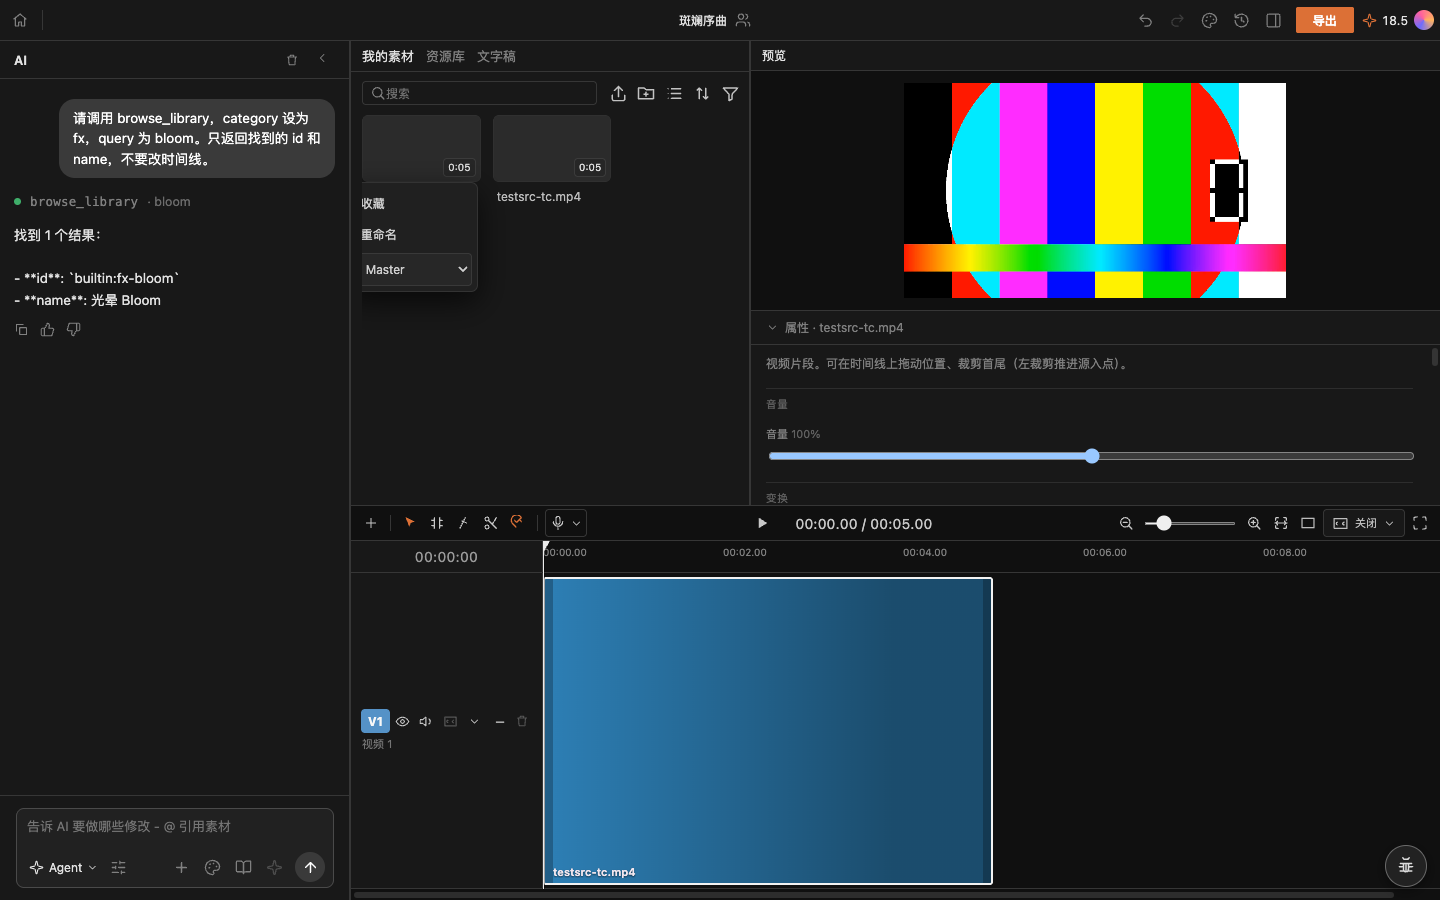
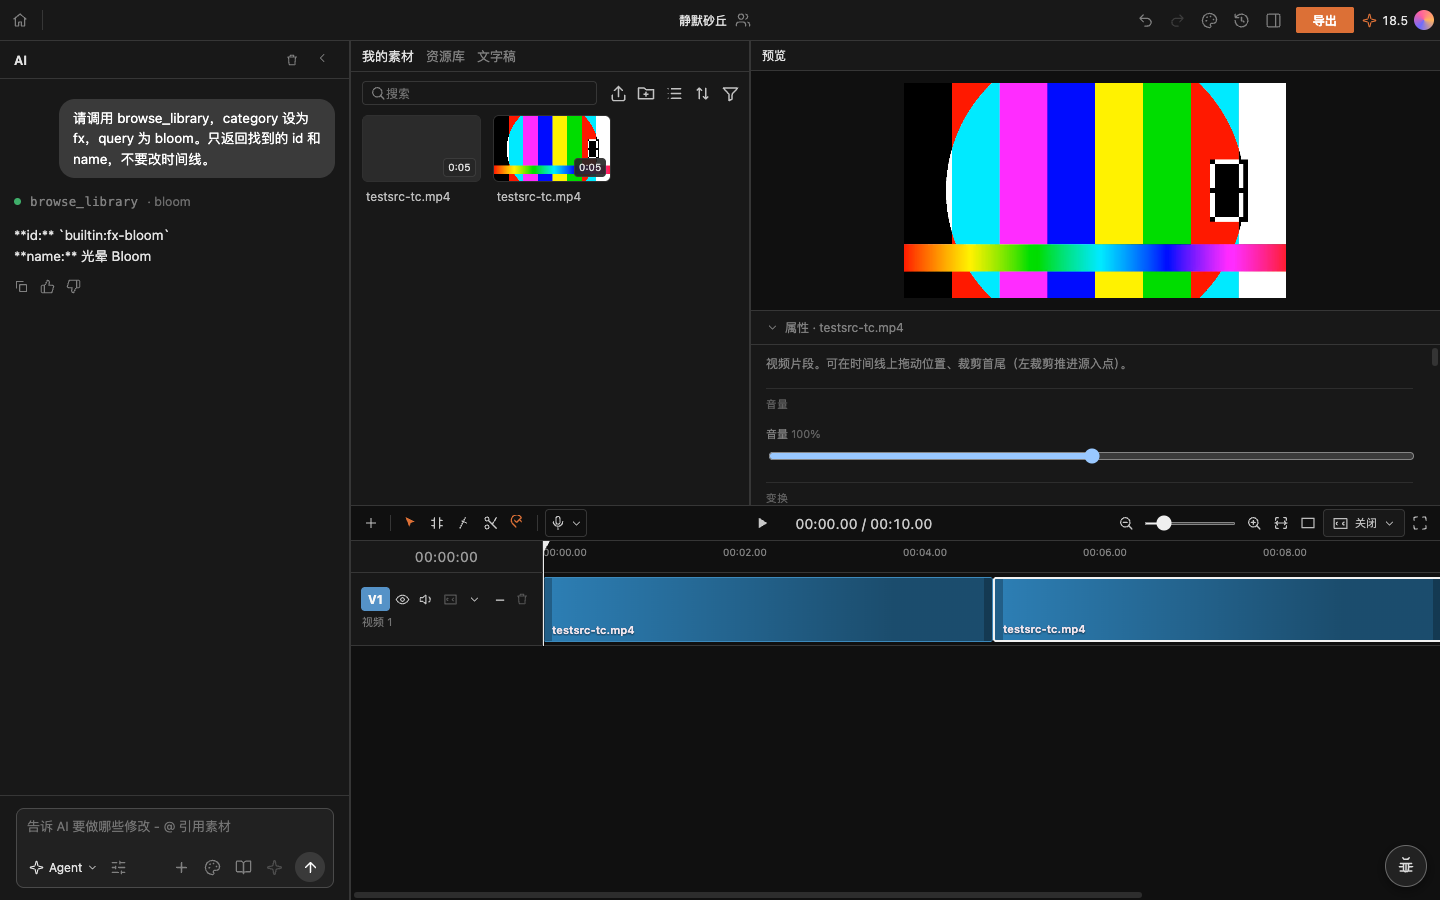
fix(ui): 单轨时间线限高 + 素材菜单 portal 防裁切
单视频轨行高上限避免铺满时间线面板；素材 ⋮ 菜单改 body portal，完整显示
收藏/重命名/移动到。补充 agent E2E（zoom + 转场）与 check 清理。

diff --git a/src/components/MediaPoolPanel.tsx b/src/components/MediaPoolPanel.tsx
@@ -1,4 +1,5 @@
-import { useRef, useState } from 'react';
+import { useEffect, useRef, useState } from 'react';
+import { createPortal } from 'react-dom';
 import { Icon } from './icons';
 import type { MediaAsset, MediaFolder } from '../editor/types';
 import { usePersistedState } from '../hooks/usePersistedState';
@@ -55,11 +56,27 @@ export function MediaPoolPanel({
   const [view, setView] = usePersistedState<'grid' | 'list'>('cc.mediaView', 'grid');
   const [menu, setMenu] = useState<'sort' | 'filter' | null>(null);
   const [assetMenu, setAssetMenu] = useState<string | null>(null);
+  /** fixed-position menu so overflow:auto grid doesn't clip 收藏/重命名/文件夹 */
+  const [assetMenuPos, setAssetMenuPos] = useState<{ top: number; left: number } | null>(null);
   const [currentFolderId, setCurrentFolderId] = useState<string>();
   const [selected, setSelected] = useState<Set<string>>(() => new Set());
   const [promptState, setPromptState] = useState<PromptState | null>(null);
   const [promptValue, setPromptValue] = useState('');
   const [deleteState, setDeleteState] = useState<DeleteState | null>(null);
+
+  useEffect(() => {
+    if (!assetMenu) return;
+    const close = () => { setAssetMenu(null); setAssetMenuPos(null); };
+    const onKey = (e: KeyboardEvent) => { if (e.key === 'Escape') close(); };
+    window.addEventListener('scroll', close, true);
+    window.addEventListener('resize', close);
+    window.addEventListener('keydown', onKey);
+    return () => {
+      window.removeEventListener('scroll', close, true);
+      window.removeEventListener('resize', close);
+      window.removeEventListener('keydown', onKey);
+    };
+  }, [assetMenu]);
 
   const currentFolder = folders.find((folder) => folder.id === currentFolderId);
   const childFolders = folders.filter((folder) => folder.parentId === currentFolderId);
@@ -184,16 +201,29 @@ export function MediaPoolPanel({
             {asset.kind === 'audio' && <span className="cc-asset-audio-mark"><Icon name="volume" size={14} /></span>}
             <span className="cc-asset-duration">{durationLabel(asset.durationInFrames, fps)}</span>
             <input className="cc-asset-check" aria-label={`选择 ${asset.name}`} type="checkbox" checked={selected.has(asset.id)} onChange={() => toggleSelected(asset.id)} />
-            <button className="cc-asset-more" aria-label={`管理 ${asset.name}`} onClick={() => setAssetMenu((value) => value === asset.id ? null : asset.id)}><Icon name="more" size={17} /></button>
+            <button className="cc-asset-more" aria-label={`管理 ${asset.name}`}
+              onClick={(event) => {
+                event.stopPropagation();
+                if (assetMenu === asset.id) {
+                  setAssetMenu(null);
+                  setAssetMenuPos(null);
+                  return;
+                }
+                const r = event.currentTarget.getBoundingClientRect();
+                const menuW = 160;
+                const menuH = 120;
+                const left = Math.min(window.innerWidth - menuW - 8, Math.max(8, r.right - menuW));
+                // prefer below the ⋮ button; flip above if near bottom of viewport
+                const below = r.bottom + 6;
+                const top = below + menuH > window.innerHeight - 8
+                  ? Math.max(8, r.top - menuH - 6)
+                  : below;
+                setAssetMenu(asset.id);
+                setAssetMenuPos({ top, left });
+              }}
+            ><Icon name="more" size={17} /></button>
           </div>
           <button className="cc-asset-name" title={asset.name} onClick={() => onAddAsset(asset)}>{asset.name}</button>
-          {assetMenu === asset.id && <div className="cc-media-popover cc-asset-menu">
-            <button onClick={() => { onSetFavorite(asset.id, !asset.favorite); setAssetMenu(null); }}>{asset.favorite ? '取消收藏' : '收藏'}</button>
-            <button onClick={() => { setAssetMenu(null); openPrompt({ title: '素材显示名称', initialValue: asset.name, onSubmit: (name) => onRenameAsset(asset.id, name) }); }}>重命名</button>
-            <select aria-label={`移动 ${asset.name}`} value={asset.folderId ?? ''} onChange={(event) => { onMoveAssets([asset.id], event.target.value || undefined); setAssetMenu(null); }}>
-              <option value="">Master</option>{folders.map((folder) => <option key={folder.id} value={folder.id}>{folderPath(folder, folders)}</option>)}
-            </select>
-          </div>}
         </div>)}
         {visible.length === 0 && childFolders.length === 0 && (
           <div className="cc-media-empty">
@@ -201,6 +231,40 @@ export function MediaPoolPanel({
           </div>
         )}
       </div>
+
+      {assetMenu && assetMenuPos && (() => {
+        const asset = assets.find((a) => a.id === assetMenu);
+        if (!asset) return null;
+        return createPortal(
+          <>
+            <div className="cc-asset-menu-backdrop" onClick={() => { setAssetMenu(null); setAssetMenuPos(null); }} />
+            <div className="cc-media-popover cc-asset-menu-portal" style={{ top: assetMenuPos.top, left: assetMenuPos.left }}
+              onClick={(e) => e.stopPropagation()}>
+              <button type="button" onClick={() => { onSetFavorite(asset.id, !asset.favorite); setAssetMenu(null); setAssetMenuPos(null); }}>
+                {asset.favorite ? '取消收藏' : '收藏'}
+              </button>
+              <button type="button" onClick={() => {
+                setAssetMenu(null); setAssetMenuPos(null);
+                openPrompt({ title: '素材显示名称', initialValue: asset.name, onSubmit: (name) => onRenameAsset(asset.id, name) });
+              }}>重命名</button>
+              <label className="cc-asset-menu-move">
+                <span>移动到</span>
+                <select aria-label={`移动 ${asset.name}`} value={asset.folderId ?? ''}
+                  onChange={(event) => {
+                    onMoveAssets([asset.id], event.target.value || undefined);
+                    setAssetMenu(null); setAssetMenuPos(null);
+                  }}>
+                  <option value="">Master</option>
+                  {folders.map((folder) => (
+                    <option key={folder.id} value={folder.id}>{folderPath(folder, folders)}</option>
+                  ))}
+                </select>
+              </label>
+            </div>
+          </>,
+          document.body,
+        );
+      })()}
 
       {promptState && <div className="cc-modal-backdrop" role="dialog" aria-modal="true" aria-label={promptState.title}>
         <form className="cc-modal" onSubmit={(event) => { event.preventDefault(); submitPrompt(); }}>

diff --git a/src/index.css b/src/index.css
@@ -143,7 +143,26 @@ button, input, select { font: inherit; }
 .cc-asset-card:has(.cc-asset-audio-mark) .cc-asset-check { left:24px; }
 .cc-asset-name { width:100%; display:block; padding:7px 4px 0; overflow:hidden; border:0; background:transparent; color:#bebebe; cursor:pointer; text-align:left; text-overflow:ellipsis; white-space:nowrap; font-size:12px; line-height:1.25; }
 .cc-asset-name:hover { color:#eee; }
-.cc-asset-menu { top:calc(100% - 22px); right:3px; }
+/* portal menu (avoids overflow clip from .cc-media-grid) */
+.cc-asset-menu-backdrop { position:fixed; inset:0; z-index:900; background:transparent; }
+.cc-asset-menu-portal {
+  position:fixed; z-index:901; min-width:156px; padding:6px; border:1px solid #3a3a3a;
+  border-radius:8px; background:#202020; box-shadow:0 12px 36px #000c;
+  display:flex; flex-direction:column; gap:2px;
+}
+.cc-asset-menu-portal button {
+  width:100%; display:block; padding:8px 10px; border:0; border-radius:5px;
+  background:transparent; color:#ddd; text-align:left; cursor:pointer; font-size:12.5px;
+}
+.cc-asset-menu-portal button:hover { background:#303030; color:#fff; }
+.cc-asset-menu-move {
+  display:flex; flex-direction:column; gap:4px; margin-top:4px; padding:6px 8px 4px;
+  border-top:1px solid #333; color:#8e8e8e; font-size:11px;
+}
+.cc-asset-menu-move select {
+  width:100%; min-width:0; padding:6px 8px; border:1px solid #393939; border-radius:5px;
+  background:#272727; color:#ddd; font-size:12px; cursor:pointer;
+}
 .cc-media-grid.list .cc-asset-card { height:28px; flex:0 0 28px; display:flex; align-items:center; gap:6px; border-radius:4px; }
 .cc-media-grid.list .cc-asset-card:hover { background:#242424; }
 .cc-media-grid.list .cc-asset-thumb-wrap { width:20px; height:20px; flex:0 0 20px; margin:0; overflow:visible; border:0; border-radius:0; background:transparent; }
@@ -153,7 +172,6 @@ button, input, select { font: inherit; }
 .cc-media-grid.list .cc-asset-name { min-width:0; flex:1; margin-right:86px; padding:0; color:#b8b8b8; font-size:13px; font-weight:500; line-height:20px; }
 .cc-media-grid.list .cc-asset-check { top:6px; left:auto; right:30px; }
 .cc-media-grid.list .cc-asset-more { top:2px; right:2px; background:transparent; }
-.cc-media-grid.list .cc-asset-menu { top:26px; right:2px; }
 .cc-media-empty { position:absolute; inset:0; display:flex; flex-direction:column; align-items:center; justify-content:center; gap:7px; padding-bottom:34px; color:#6f6f6f; text-align:center; font-size:12px; pointer-events:none; }
 .cc-media-empty svg { margin-bottom:3px; color:#777; }
 .cc-media-empty strong { color:#aaa; font-size:14px; font-weight:400; line-height:20px; }

diff --git a/src/components/Timeline.tsx b/src/components/Timeline.tsx
@@ -23,6 +23,8 @@ interface TimelineProps {
 const HEADER_W = 192;
 const MIN_ROW = 34;
 const RULER_H = 32;
+/** cap so a lone track doesn't swallow the whole timeline pane (source-like denser rows) */
+const MAX_ROW: Record<'video' | 'audio', number> = { video: 88, audio: 52 };
 // clip fill by ITEM kind — source --tl-item-* oklch (video/image=blue, audio=green,
 // motion-graphic=pink, text=amber). Video/image also render a media thumbnail on top.
 const CLIP_COLOR: Record<TimelineItem['kind'], string> = {
@@ -277,8 +279,21 @@ export function Timeline({ state, commands, playerRef, onRecordVoiceover }: Time
   const expanded = trackIds.filter((id) => !state.tracks?.[id]?.collapsed);
   const collapsedHeight = (trackIds.length - expanded.length) * MIN_ROW;
   const totalWeight = expanded.reduce((sum, id) => sum + WEIGHT[metaOf(id).kind], 0);
-  const unit = Math.max(0, availH - collapsedHeight) / Math.max(1, totalWeight);
-  const rowHeightOf = (id: TrackId) => state.tracks?.[id]?.collapsed ? MIN_ROW : Math.max(MIN_ROW, unit * WEIGHT[metaOf(id).kind] * trackScale);
+  // fill available height when many tracks, but never exceed MAX_ROW per kind —
+  // otherwise a single V1 fills the entire timeline (looks like a giant empty clip).
+  const unitFill = Math.max(0, availH - collapsedHeight) / Math.max(1, totalWeight);
+  const unitCap = Math.min(
+    MAX_ROW.video / WEIGHT.video,
+    MAX_ROW.audio / WEIGHT.audio,
+  );
+  const unit = Math.min(unitFill, unitCap);
+  const rowHeightOf = (id: TrackId) => {
+    if (state.tracks?.[id]?.collapsed) return MIN_ROW;
+    const kind = metaOf(id).kind;
+    const raw = unit * WEIGHT[kind] * trackScale;
+    const cap = MAX_ROW[kind] * Math.max(1, trackScale);
+    return Math.max(MIN_ROW, Math.min(cap, raw));
+  };
   const tracksHeight = trackIds.reduce((sum, id) => sum + rowHeightOf(id), 0);
 
   const frameFromClientX = (clientX: number): number => {

diff --git a/src/agent/library-edit-item.check.ts b/src/agent/library-edit-item.check.ts
@@ -87,10 +87,7 @@ console.log(`catalog: fx=${FX_IDS.length} lut=${LUT_IDS.length} tr=${TRANSITION_
   assert.strictEqual(q.mode, 'list');
   assert.ok(q.results.some((r) => r.id.includes('bloom')), 'query finds bloom');
 
-  const zoomList = await execLibraryTool('browse_library', { category: 'zoom' }, ctx) as {
-    results?: { id: string }[]; total?: number; mode: string;
-  };
-  // category-only returns overview; use query empty list via group or id
+  // category-only returns overview; id mode returns usage guidance
   const zoomDetail = await execLibraryTool('browse_library', { id: 'library:zoom:punch' }, ctx) as {
     mode: string; item: { id: string; usage?: string };
   };

diff --git a/scripts/e2e-agent-library.py b/scripts/e2e-agent-library.py
@@ -89,22 +89,29 @@ def import_videos(page) -> None:
         page.wait_for_timeout(300)
 
     inp = page.locator('input[type="file"]').first
-    inp.set_input_files([str(VIDEO), str(VIDEO)])
-    page.wait_for_timeout(3500)
-    log("imported test video (x2 files)")
+    # two separate imports → two pool cards when possible
+    inp.set_input_files(str(VIDEO))
+    page.wait_for_timeout(2500)
+    inp.set_input_files(str(VIDEO))
+    page.wait_for_timeout(2500)
+    log("imported test video twice")
 
-    # click first asset to timeline twice for two clips
-    thumbs = page.locator("button.cc-asset-thumb, .cc-asset-card button")
-    if thumbs.count() == 0:
-        thumbs = page.locator(".cc-media-grid button")
+    # place onto timeline: click each thumb (or same thumb twice) for adjacent clips
+    thumbs = page.locator("button.cc-asset-thumb")
     n = thumbs.count()
-    log(f"asset buttons: {n}")
-    for i in range(min(2, max(n, 1))):
-        try:
-            thumbs.nth(min(i, n - 1)).click(force=True, timeout=5000)
-            page.wait_for_timeout(500)
-        except Exception as e:
-            log(f"place clip warn: {e}")
+    log(f"asset thumbs: {n}")
+    if n >= 2:
+        thumbs.nth(0).click(force=True, timeout=5000)
+        page.wait_for_timeout(400)
+        thumbs.nth(1).click(force=True, timeout=5000)
+        page.wait_for_timeout(400)
+    elif n == 1:
+        thumbs.first.click(force=True, timeout=5000)
+        page.wait_for_timeout(400)
+        thumbs.first.click(force=True, timeout=5000)
+        page.wait_for_timeout(400)
+    else:
+        log("place clip warn: no thumbs")
     dismiss_overlays(page)
 
 
@@ -232,19 +239,34 @@ def main() -> int:
         (OUT / "chat-after-edit.txt").write_text(body2, encoding="utf-8")
         page.screenshot(path=str(OUT / "04-after-edit.png"))
 
-        # Turn 3: transition
+        # Turn 3: zoom punch on first clip
+        send_chat(
+            page,
+            "请用 edit_item 给第一个 video 片段添加缩放 "
+            "assetId=library:zoom:punch（type=effect）。简要中文说明。",
+        )
+        try:
+            wait_agent_idle(page, 150_000)
+        except TimeoutError as e:
+            log(f"zoom timeout: {e}")
+        body_zoom = page.inner_text("body")
+        (OUT / "chat-after-zoom.txt").write_text(body_zoom, encoding="utf-8")
+        page.screenshot(path=str(OUT / "05-after-zoom.png"))
+
+        # Turn 4: transition if two clips
         send_chat(
             page,
             "请 read_timeline。若存在相邻 video 切点，用 edit_item 给后一镜加 "
-            "transition assetId=builtin:tr-cross-dissolve。没有则说明原因。",
+            "transition assetId=builtin:tr-cross-dissolve；若只有一镜，"
+            "先把媒体池里的素材再加到时间线一次形成两段相邻，再加转场。",
         )
         try:
-            wait_agent_idle(page, 180_000)
+            wait_agent_idle(page, 200_000)
         except TimeoutError as e:
             log(f"transition timeout: {e}")
         body3 = page.inner_text("body")
         (OUT / "chat-final.txt").write_text(body3, encoding="utf-8")
-        page.screenshot(path=str(OUT / "05-final.png"))
+        page.screenshot(path=str(OUT / "06-final.png"))
 
         # Stream responses often aren't parseable as JSON; trust chat UI tool chips + inspector text.
         names = [t.get("name") for t in tool_calls]
@@ -256,6 +278,8 @@ def main() -> int:
         bloom_ui = "光晕 Bloom" in final or "builtin:fx-bloom" in final
         # inspector shows applied effect as "1. 光晕 Bloom"
         bloom_applied = "1. 光晕 Bloom" in final or re.search(r"光晕 Bloom\s*\n", final) is not None
+        zoom_ui = "library:zoom:punch" in final or "冲击" in final or "punch" in final.lower()
+        tr_ui = "cross-dissolve" in final or "叠化" in final or "builtin:tr-cross-dissolve" in final
 
         summary = {
             "llm_calls": llm_calls,
@@ -266,6 +290,8 @@ def main() -> int:
             "read_timeline_called": ui_read or "read_timeline" in names,
             "bloom_mentioned": bloom_ui,
             "bloom_applied_in_inspector": bloom_applied,
+            "zoom_mentioned": zoom_ui,
+            "transition_mentioned": tr_ui,
             "url": page.url,
         }
         (OUT / "tool_calls.json").write_text(
